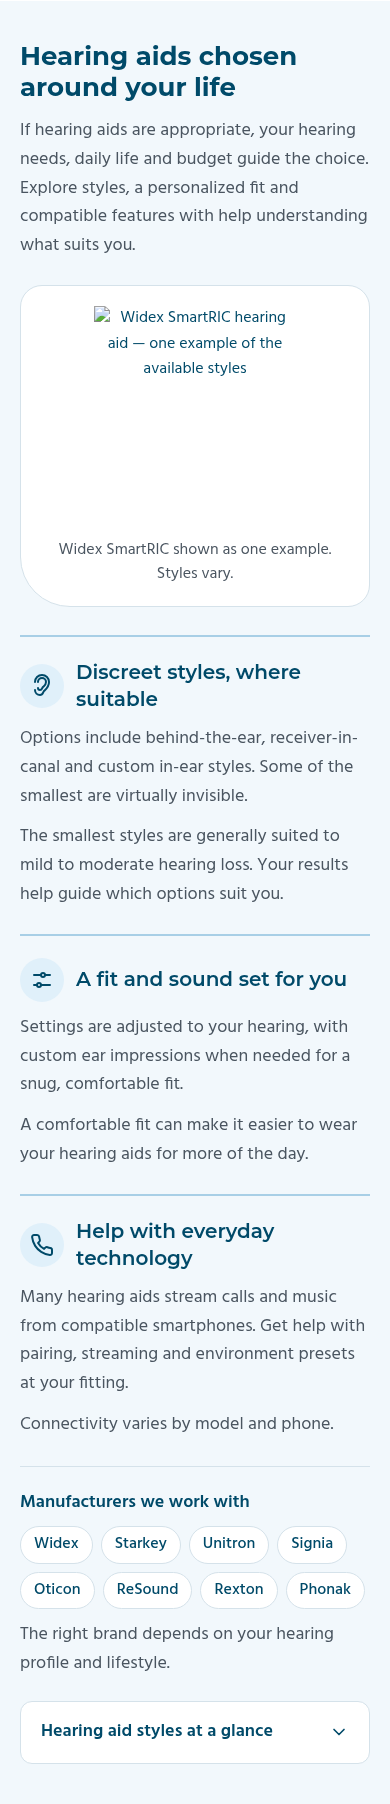
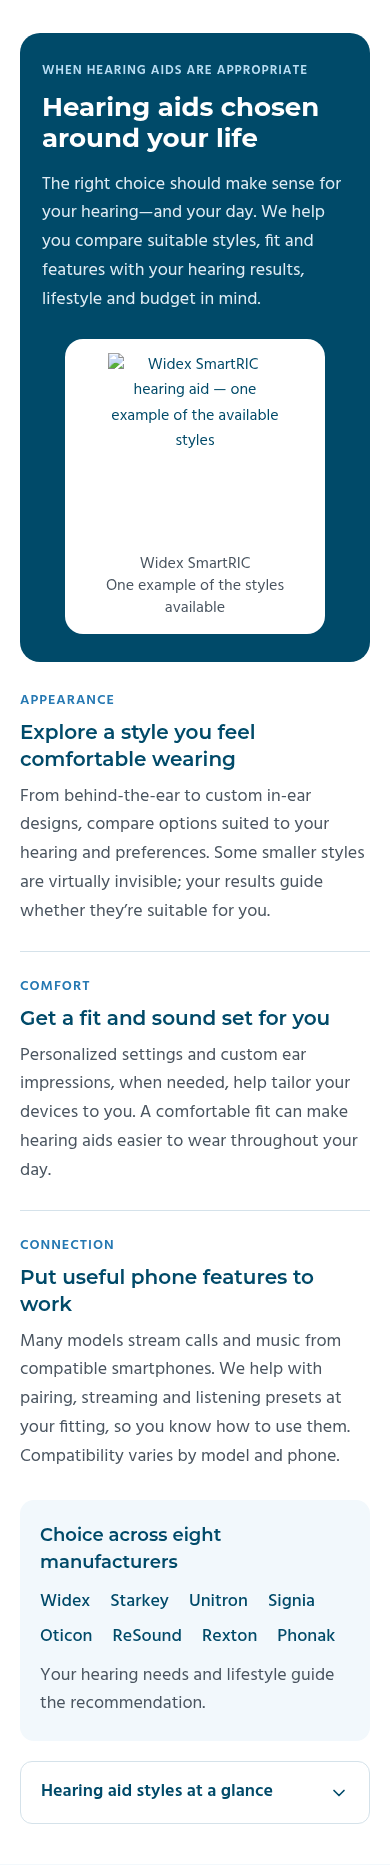
Strengthen options visual hierarchy and benefit copy

diff --git a/index.html b/index.html
@@ -499,47 +499,57 @@ a:hover{ color:var(--hc-navy); }
 .hc-section-cta{ margin-top:clamp(36px, 4vw, 52px); display:flex; flex-wrap:wrap; align-items:center; gap:16px 28px; }
 .hc-section-cta > p{ font-family:var(--hc-head); font-weight:600; font-size:1.25rem; color:var(--hc-navy); }
 
-/* ---------- Options: image-led introduction and three benefits ---------- */
-#options{ background:var(--hc-surface); padding:60px 0; }
-.hc-options__intro{ display:grid; grid-template-columns:minmax(0,7fr) minmax(0,5fr); gap:56px; align-items:center; }
-.hc-options__intro h2{ max-width:650px; }
-.hc-options__intro p{ margin-top:18px; font-size:1.125rem; line-height:1.6; color:var(--hc-muted); max-width:620px; }
-.hc-options__media{ margin:0; padding:26px; border:1px solid var(--hc-border); border-radius:26px 26px 26px 70px; background:var(--hc-white); text-align:center; }
-.hc-options__photo{ min-height:253px; display:flex; justify-content:center; align-items:center; }
-.hc-options__photo img{ width:232px; height:253px; max-width:100%; object-fit:contain; color:var(--hc-navy); font-size:1rem; }
-.hc-options__media figcaption{ margin-top:12px; font-size:1rem; line-height:1.5; color:var(--hc-muted); }
-.hc-options__benefits{ display:grid; grid-template-columns:repeat(3,minmax(0,1fr)); gap:30px; margin-top:40px; }
-.hc-options .hc-feature{ border-top:2px solid #a8cfe6; padding-top:22px; }
-.hc-options .hc-feature h3{ margin:14px 0 12px; font-size:1.375rem; line-height:1.35; }
+/* ---------- Options: focused product story and practical benefits ---------- */
+#options{ background:var(--hc-white); padding:56px 0; }
+.hc-options__intro{ display:grid; grid-template-columns:minmax(0,1fr) 280px; gap:52px; align-items:center; padding:40px 44px; border-radius:24px; background:var(--hc-navy); }
+.hc-options__eyebrow{ display:block; margin-bottom:16px; font-size:.875rem; font-weight:600; line-height:1.5; letter-spacing:.07em; color:#b9def4; text-transform:uppercase; }
+.hc-options__intro h2{ max-width:650px; color:var(--hc-white); }
+.hc-options__intro p{ margin-top:20px; font-size:1.125rem; line-height:1.6; color:#e0edf5; max-width:610px; }
+.hc-options__media{ margin:0; padding:18px 18px 16px; border-radius:18px; background:var(--hc-white); text-align:center; }
+.hc-options__photo{ display:flex; justify-content:center; align-items:center; }
+.hc-options__photo img{ width:202px; height:220px; max-width:100%; object-fit:contain; color:var(--hc-navy); font-size:1rem; }
+.hc-options__media figcaption{ margin-top:10px; font-size:1rem; line-height:1.4; color:var(--hc-muted); }
+.hc-options__benefits{ display:grid; grid-template-columns:repeat(3,minmax(0,1fr)); gap:0; margin-top:36px; }
+.hc-options .hc-feature{ padding:0 28px; }
+.hc-options .hc-feature:first-child{ padding-left:0; }
+.hc-options .hc-feature:last-child{ padding-right:0; }
+.hc-options .hc-feature + .hc-feature{ border-left:1px solid var(--hc-border); }
+.hc-options__label{ display:block; margin-bottom:10px; color:var(--hc-blue); font-size:.875rem; line-height:1.5; font-weight:600; letter-spacing:.07em; text-transform:uppercase; }
+.hc-options .hc-feature h3{ margin:0 0 14px; min-height:2.7em; font-size:1.375rem; line-height:1.35; }
 .hc-options .hc-feature p{ font-size:1.125rem; line-height:1.6; color:var(--hc-muted); }
-.hc-options .hc-feature p + p{ margin-top:12px; }
-.hc-options__icon{ display:flex; align-items:center; justify-content:center; width:44px; height:44px; color:var(--hc-navy); background:#e0f0fa; border-radius:50%; }
-.hc-options__icon svg{ width:24px; height:24px; }
-.hc-options__support{ display:grid; grid-template-columns:minmax(0,7fr) minmax(0,5fr); gap:40px; align-items:start; margin-top:34px; padding-top:28px; border-top:1px solid var(--hc-border); }
-.hc-options .hc-brands h3{ font-size:1.125rem; font-family:var(--hc-body); font-weight:600; color:var(--hc-navy); margin-bottom:12px; }
-.hc-options .hc-brands ul{ list-style:none; margin:0; padding:0; display:flex; flex-wrap:wrap; gap:8px; }
-.hc-options .hc-brands li{ padding:5px 13px; border:1px solid var(--hc-border); border-radius:999px; font-weight:500; font-size:1rem; color:var(--hc-navy); background:var(--hc-white); }
-.hc-options .hc-brands p{ margin-top:12px; font-size:1.125rem; line-height:1.6; color:var(--hc-muted); }
+.hc-options__support{ margin-top:34px; }
+.hc-options .hc-brands{ display:grid; grid-template-columns:240px minmax(0,1fr); gap:10px 28px; padding:24px 28px; border-radius:14px; background:var(--hc-surface); }
+.hc-options .hc-brands h3{ font-size:1.125rem; line-height:1.5; font-weight:600; color:var(--hc-navy); }
+.hc-options .hc-brands ul{ list-style:none; margin:0; padding:0; display:flex; flex-wrap:wrap; gap:8px 22px; align-items:center; }
+.hc-options .hc-brands li{ font-weight:500; font-size:1.125rem; line-height:1.5; color:var(--hc-navy); }
+.hc-options .hc-brands p{ grid-column:2; font-size:1.125rem; line-height:1.6; color:var(--hc-muted); }
+.hc-options .hc-more{ margin-top:20px; }
 .hc-options .hc-more summary,.hc-options .hc-more__body,.hc-options .hc-more__body > p{ font-size:1.125rem; line-height:1.6; }
+.hc-options .hc-more__body dl{ grid-template-columns:repeat(2,minmax(0,1fr)); gap:22px 36px; }
 @media(max-width:1023px){
- .hc-options__intro{ gap:30px; grid-template-columns:minmax(0,3fr) minmax(0,2fr); }
- .hc-options__media{ padding:20px; }
- .hc-options__benefits{ gap:22px; }
- .hc-options__support{ grid-template-columns:1fr; gap:22px; }
+ .hc-options__intro{ grid-template-columns:minmax(0,1fr) 240px; gap:28px; padding:30px; }
+ .hc-options__media{ padding:16px; }
+ .hc-options .hc-feature{ padding:0 20px; }
+ .hc-options .hc-feature h3{ min-height:4.05em; font-size:1.25rem; }
+ .hc-options .hc-brands{ grid-template-columns:200px minmax(0,1fr); gap:10px 20px; padding:22px; }
 }
 @media(max-width:767px){
- #options{ padding:40px 0; }
- .hc-options__intro{ grid-template-columns:1fr; gap:24px; }
- .hc-options__intro p{ margin-top:14px; }
- .hc-options__media{ width:100%; max-width:440px; justify-self:center; border-radius:22px 22px 22px 50px; }
- .hc-options__photo{ min-height:220px; }
- .hc-options__photo img{ width:202px; height:220px; }
+ #options{ padding:32px 0 40px; }
+ .hc-options__intro{ grid-template-columns:1fr; gap:24px; padding:28px 22px; border-radius:20px; }
+ .hc-options__eyebrow{ margin-bottom:12px; font-size:.8125rem; }
+ .hc-options__intro p{ margin-top:16px; }
+ .hc-options__media{ width:100%; max-width:260px; justify-self:center; padding:14px; }
+ .hc-options__photo img{ width:174px; height:190px; }
  .hc-options__benefits{ grid-template-columns:1fr; margin-top:28px; gap:24px; }
- .hc-options .hc-feature{ display:grid; grid-template-columns:44px minmax(0,1fr); gap:12px; align-items:center; padding-top:22px; }
- .hc-options .hc-feature h3{ margin:0; font-size:1.25rem; }
- .hc-options .hc-feature p{ grid-column:1 / -1; }
- .hc-options .hc-feature p + p{ margin-top:0; }
- .hc-options__support{ margin-top:26px; padding-top:24px; }
+ .hc-options .hc-feature,.hc-options .hc-feature:first-child,.hc-options .hc-feature:last-child{ padding:0; border:0; }
+ .hc-options .hc-feature + .hc-feature{ padding-top:24px; border-top:1px solid var(--hc-border); border-left:0; }
+ .hc-options__label{ margin-bottom:8px; }
+ .hc-options .hc-feature h3{ margin-bottom:10px; min-height:0; }
+ .hc-options__support{ margin-top:28px; }
+ .hc-options .hc-brands{ grid-template-columns:1fr; gap:12px; padding:22px 20px; }
+ .hc-options .hc-brands ul{ gap:8px 20px; }
+ .hc-options .hc-brands p{ grid-column:auto; }
+ .hc-options .hc-more__body dl{ grid-template-columns:1fr; gap:18px; }
 }
 
 /* ---------- Payment ---------- */
@@ -948,39 +958,37 @@ a:hover{ color:var(--hc-navy); }
   <div class="hc-wrap hc-options">
     <div class="hc-options__intro">
       <div>
+        <span class="hc-options__eyebrow">When hearing aids are appropriate</span>
         <h2 id="options-title">Hearing aids chosen around your life</h2>
-        <p>If hearing aids are appropriate, your hearing needs, daily life and budget guide the choice. Explore styles, a personalized fit and compatible features with help understanding what suits you.</p>
+        <p>The right choice should make sense for your hearing—and your day. We help you compare suitable styles, fit and features with your hearing results, lifestyle and budget in mind.</p>
       </div>
       <figure class="hc-options__media">
         <div class="hc-options__photo"><img src="https://hearcareinc.com/wp-content/uploads/2026/08/widexsmartric.jpg" width="232" height="253" loading="lazy" decoding="async" alt="Widex SmartRIC hearing aid — one example of the available styles"></div>
-        <figcaption>Widex SmartRIC shown as one example. Styles vary.</figcaption>
+        <figcaption>Widex SmartRIC<br>One example of the styles available</figcaption>
       </figure>
     </div>
     <div class="hc-options__benefits">
       <div class="hc-feature">
-        <span class="hc-options__icon" aria-hidden="true"><svg class="hc-icon"><path d="M8 8a4 4 0 0 1 8 0c0 3-2 4-3 5s-1 3-3 3a2 2 0 0 1-2-2M5 8a7 7 0 0 1 14 0c0 5-3 7-5 9-1 1-1 4-4 4a5 5 0 0 1-5-5"/></svg></span>
-        <h3>Discreet styles, where suitable</h3>
-        <p>Options include behind-the-ear, receiver-in-canal and custom in-ear styles. Some of the smallest are virtually invisible.</p>
-        <p>The smallest styles are generally suited to mild to moderate hearing loss. Your results help guide which options suit you.</p>
+        <span class="hc-options__label">Appearance</span>
+        <h3>Explore a style you feel comfortable wearing</h3>
+        <p>From behind-the-ear to custom in-ear designs, compare options suited to your hearing and preferences. Some smaller styles are virtually invisible; your results guide whether they’re suitable for you.</p>
       </div>
       <div class="hc-feature">
-        <span class="hc-options__icon" aria-hidden="true"><svg class="hc-icon"><path d="M4 7h7m4 0h5M4 17h3m4 0h9"/><circle cx="13" cy="7" r="2"/><circle cx="9" cy="17" r="2"/></svg></span>
-        <h3>A fit and sound set for you</h3>
-        <p>Settings are adjusted to your hearing, with custom ear impressions when needed for a snug, comfortable fit.</p>
-        <p>A comfortable fit can make it easier to wear your hearing aids for more of the day.</p>
+        <span class="hc-options__label">Comfort</span>
+        <h3>Get a fit and sound set for you</h3>
+        <p>Personalized settings and custom ear impressions, when needed, help tailor your devices to you. A comfortable fit can make hearing aids easier to wear throughout your day.</p>
       </div>
       <div class="hc-feature">
-        <span class="hc-options__icon" aria-hidden="true"><svg class="hc-icon"><use href="#i-phone"/></svg></span>
-        <h3>Help with everyday technology</h3>
-        <p>Many hearing aids stream calls and music from compatible smartphones. Get help with pairing, streaming and environment presets at your fitting.</p>
-        <p>Connectivity varies by model and phone.</p>
+        <span class="hc-options__label">Connection</span>
+        <h3>Put useful phone features to work</h3>
+        <p>Many models stream calls and music from compatible smartphones. We help with pairing, streaming and listening presets at your fitting, so you know how to use them. Compatibility varies by model and phone.</p>
       </div>
     </div>
     <div class="hc-options__support">
       <div class="hc-brands">
-        <h3>Manufacturers we work with</h3>
+        <h3>Choice across eight manufacturers</h3>
         <ul><li>Widex</li><li>Starkey</li><li>Unitron</li><li>Signia</li><li>Oticon</li><li>ReSound</li><li>Rexton</li><li>Phonak</li></ul>
-        <p>The right brand depends on your hearing profile and lifestyle.</p>
+        <p>Your hearing needs and lifestyle guide the recommendation.</p>
       </div>
       <details class="hc-more">
         <summary>Hearing aid styles at a glance<svg class="hc-icon" aria-hidden="true"><use href="#i-chev"/></svg></summary>

diff --git a/review/hero-review.html b/review/hero-review.html
@@ -499,47 +499,57 @@ a:hover{ color:var(--hc-navy); }
 .hc-section-cta{ margin-top:clamp(36px, 4vw, 52px); display:flex; flex-wrap:wrap; align-items:center; gap:16px 28px; }
 .hc-section-cta > p{ font-family:var(--hc-head); font-weight:600; font-size:1.25rem; color:var(--hc-navy); }
 
-/* ---------- Options: image-led introduction and three benefits ---------- */
-#options{ background:var(--hc-surface); padding:60px 0; }
-.hc-options__intro{ display:grid; grid-template-columns:minmax(0,7fr) minmax(0,5fr); gap:56px; align-items:center; }
-.hc-options__intro h2{ max-width:650px; }
-.hc-options__intro p{ margin-top:18px; font-size:1.125rem; line-height:1.6; color:var(--hc-muted); max-width:620px; }
-.hc-options__media{ margin:0; padding:26px; border:1px solid var(--hc-border); border-radius:26px 26px 26px 70px; background:var(--hc-white); text-align:center; }
-.hc-options__photo{ min-height:253px; display:flex; justify-content:center; align-items:center; }
-.hc-options__photo img{ width:232px; height:253px; max-width:100%; object-fit:contain; color:var(--hc-navy); font-size:1rem; }
-.hc-options__media figcaption{ margin-top:12px; font-size:1rem; line-height:1.5; color:var(--hc-muted); }
-.hc-options__benefits{ display:grid; grid-template-columns:repeat(3,minmax(0,1fr)); gap:30px; margin-top:40px; }
-.hc-options .hc-feature{ border-top:2px solid #a8cfe6; padding-top:22px; }
-.hc-options .hc-feature h3{ margin:14px 0 12px; font-size:1.375rem; line-height:1.35; }
+/* ---------- Options: focused product story and practical benefits ---------- */
+#options{ background:var(--hc-white); padding:56px 0; }
+.hc-options__intro{ display:grid; grid-template-columns:minmax(0,1fr) 280px; gap:52px; align-items:center; padding:40px 44px; border-radius:24px; background:var(--hc-navy); }
+.hc-options__eyebrow{ display:block; margin-bottom:16px; font-size:.875rem; font-weight:600; line-height:1.5; letter-spacing:.07em; color:#b9def4; text-transform:uppercase; }
+.hc-options__intro h2{ max-width:650px; color:var(--hc-white); }
+.hc-options__intro p{ margin-top:20px; font-size:1.125rem; line-height:1.6; color:#e0edf5; max-width:610px; }
+.hc-options__media{ margin:0; padding:18px 18px 16px; border-radius:18px; background:var(--hc-white); text-align:center; }
+.hc-options__photo{ display:flex; justify-content:center; align-items:center; }
+.hc-options__photo img{ width:202px; height:220px; max-width:100%; object-fit:contain; color:var(--hc-navy); font-size:1rem; }
+.hc-options__media figcaption{ margin-top:10px; font-size:1rem; line-height:1.4; color:var(--hc-muted); }
+.hc-options__benefits{ display:grid; grid-template-columns:repeat(3,minmax(0,1fr)); gap:0; margin-top:36px; }
+.hc-options .hc-feature{ padding:0 28px; }
+.hc-options .hc-feature:first-child{ padding-left:0; }
+.hc-options .hc-feature:last-child{ padding-right:0; }
+.hc-options .hc-feature + .hc-feature{ border-left:1px solid var(--hc-border); }
+.hc-options__label{ display:block; margin-bottom:10px; color:var(--hc-blue); font-size:.875rem; line-height:1.5; font-weight:600; letter-spacing:.07em; text-transform:uppercase; }
+.hc-options .hc-feature h3{ margin:0 0 14px; min-height:2.7em; font-size:1.375rem; line-height:1.35; }
 .hc-options .hc-feature p{ font-size:1.125rem; line-height:1.6; color:var(--hc-muted); }
-.hc-options .hc-feature p + p{ margin-top:12px; }
-.hc-options__icon{ display:flex; align-items:center; justify-content:center; width:44px; height:44px; color:var(--hc-navy); background:#e0f0fa; border-radius:50%; }
-.hc-options__icon svg{ width:24px; height:24px; }
-.hc-options__support{ display:grid; grid-template-columns:minmax(0,7fr) minmax(0,5fr); gap:40px; align-items:start; margin-top:34px; padding-top:28px; border-top:1px solid var(--hc-border); }
-.hc-options .hc-brands h3{ font-size:1.125rem; font-family:var(--hc-body); font-weight:600; color:var(--hc-navy); margin-bottom:12px; }
-.hc-options .hc-brands ul{ list-style:none; margin:0; padding:0; display:flex; flex-wrap:wrap; gap:8px; }
-.hc-options .hc-brands li{ padding:5px 13px; border:1px solid var(--hc-border); border-radius:999px; font-weight:500; font-size:1rem; color:var(--hc-navy); background:var(--hc-white); }
-.hc-options .hc-brands p{ margin-top:12px; font-size:1.125rem; line-height:1.6; color:var(--hc-muted); }
+.hc-options__support{ margin-top:34px; }
+.hc-options .hc-brands{ display:grid; grid-template-columns:240px minmax(0,1fr); gap:10px 28px; padding:24px 28px; border-radius:14px; background:var(--hc-surface); }
+.hc-options .hc-brands h3{ font-size:1.125rem; line-height:1.5; font-weight:600; color:var(--hc-navy); }
+.hc-options .hc-brands ul{ list-style:none; margin:0; padding:0; display:flex; flex-wrap:wrap; gap:8px 22px; align-items:center; }
+.hc-options .hc-brands li{ font-weight:500; font-size:1.125rem; line-height:1.5; color:var(--hc-navy); }
+.hc-options .hc-brands p{ grid-column:2; font-size:1.125rem; line-height:1.6; color:var(--hc-muted); }
+.hc-options .hc-more{ margin-top:20px; }
 .hc-options .hc-more summary,.hc-options .hc-more__body,.hc-options .hc-more__body > p{ font-size:1.125rem; line-height:1.6; }
+.hc-options .hc-more__body dl{ grid-template-columns:repeat(2,minmax(0,1fr)); gap:22px 36px; }
 @media(max-width:1023px){
- .hc-options__intro{ gap:30px; grid-template-columns:minmax(0,3fr) minmax(0,2fr); }
- .hc-options__media{ padding:20px; }
- .hc-options__benefits{ gap:22px; }
- .hc-options__support{ grid-template-columns:1fr; gap:22px; }
+ .hc-options__intro{ grid-template-columns:minmax(0,1fr) 240px; gap:28px; padding:30px; }
+ .hc-options__media{ padding:16px; }
+ .hc-options .hc-feature{ padding:0 20px; }
+ .hc-options .hc-feature h3{ min-height:4.05em; font-size:1.25rem; }
+ .hc-options .hc-brands{ grid-template-columns:200px minmax(0,1fr); gap:10px 20px; padding:22px; }
 }
 @media(max-width:767px){
- #options{ padding:40px 0; }
- .hc-options__intro{ grid-template-columns:1fr; gap:24px; }
- .hc-options__intro p{ margin-top:14px; }
- .hc-options__media{ width:100%; max-width:440px; justify-self:center; border-radius:22px 22px 22px 50px; }
- .hc-options__photo{ min-height:220px; }
- .hc-options__photo img{ width:202px; height:220px; }
+ #options{ padding:32px 0 40px; }
+ .hc-options__intro{ grid-template-columns:1fr; gap:24px; padding:28px 22px; border-radius:20px; }
+ .hc-options__eyebrow{ margin-bottom:12px; font-size:.8125rem; }
+ .hc-options__intro p{ margin-top:16px; }
+ .hc-options__media{ width:100%; max-width:260px; justify-self:center; padding:14px; }
+ .hc-options__photo img{ width:174px; height:190px; }
  .hc-options__benefits{ grid-template-columns:1fr; margin-top:28px; gap:24px; }
- .hc-options .hc-feature{ display:grid; grid-template-columns:44px minmax(0,1fr); gap:12px; align-items:center; padding-top:22px; }
- .hc-options .hc-feature h3{ margin:0; font-size:1.25rem; }
- .hc-options .hc-feature p{ grid-column:1 / -1; }
- .hc-options .hc-feature p + p{ margin-top:0; }
- .hc-options__support{ margin-top:26px; padding-top:24px; }
+ .hc-options .hc-feature,.hc-options .hc-feature:first-child,.hc-options .hc-feature:last-child{ padding:0; border:0; }
+ .hc-options .hc-feature + .hc-feature{ padding-top:24px; border-top:1px solid var(--hc-border); border-left:0; }
+ .hc-options__label{ margin-bottom:8px; }
+ .hc-options .hc-feature h3{ margin-bottom:10px; min-height:0; }
+ .hc-options__support{ margin-top:28px; }
+ .hc-options .hc-brands{ grid-template-columns:1fr; gap:12px; padding:22px 20px; }
+ .hc-options .hc-brands ul{ gap:8px 20px; }
+ .hc-options .hc-brands p{ grid-column:auto; }
+ .hc-options .hc-more__body dl{ grid-template-columns:1fr; gap:18px; }
 }
 
 /* ---------- Payment ---------- */
@@ -948,39 +958,37 @@ a:hover{ color:var(--hc-navy); }
   <div class="hc-wrap hc-options">
     <div class="hc-options__intro">
       <div>
+        <span class="hc-options__eyebrow">When hearing aids are appropriate</span>
         <h2 id="options-title">Hearing aids chosen around your life</h2>
-        <p>If hearing aids are appropriate, your hearing needs, daily life and budget guide the choice. Explore styles, a personalized fit and compatible features with help understanding what suits you.</p>
+        <p>The right choice should make sense for your hearing—and your day. We help you compare suitable styles, fit and features with your hearing results, lifestyle and budget in mind.</p>
       </div>
       <figure class="hc-options__media">
         <div class="hc-options__photo"><img src="https://hearcareinc.com/wp-content/uploads/2026/08/widexsmartric.jpg" width="232" height="253" loading="lazy" decoding="async" alt="Widex SmartRIC hearing aid — one example of the available styles"></div>
-        <figcaption>Widex SmartRIC shown as one example. Styles vary.</figcaption>
+        <figcaption>Widex SmartRIC<br>One example of the styles available</figcaption>
       </figure>
     </div>
     <div class="hc-options__benefits">
       <div class="hc-feature">
-        <span class="hc-options__icon" aria-hidden="true"><svg class="hc-icon"><path d="M8 8a4 4 0 0 1 8 0c0 3-2 4-3 5s-1 3-3 3a2 2 0 0 1-2-2M5 8a7 7 0 0 1 14 0c0 5-3 7-5 9-1 1-1 4-4 4a5 5 0 0 1-5-5"/></svg></span>
-        <h3>Discreet styles, where suitable</h3>
-        <p>Options include behind-the-ear, receiver-in-canal and custom in-ear styles. Some of the smallest are virtually invisible.</p>
-        <p>The smallest styles are generally suited to mild to moderate hearing loss. Your results help guide which options suit you.</p>
+        <span class="hc-options__label">Appearance</span>
+        <h3>Explore a style you feel comfortable wearing</h3>
+        <p>From behind-the-ear to custom in-ear designs, compare options suited to your hearing and preferences. Some smaller styles are virtually invisible; your results guide whether they’re suitable for you.</p>
       </div>
       <div class="hc-feature">
-        <span class="hc-options__icon" aria-hidden="true"><svg class="hc-icon"><path d="M4 7h7m4 0h5M4 17h3m4 0h9"/><circle cx="13" cy="7" r="2"/><circle cx="9" cy="17" r="2"/></svg></span>
-        <h3>A fit and sound set for you</h3>
-        <p>Settings are adjusted to your hearing, with custom ear impressions when needed for a snug, comfortable fit.</p>
-        <p>A comfortable fit can make it easier to wear your hearing aids for more of the day.</p>
+        <span class="hc-options__label">Comfort</span>
+        <h3>Get a fit and sound set for you</h3>
+        <p>Personalized settings and custom ear impressions, when needed, help tailor your devices to you. A comfortable fit can make hearing aids easier to wear throughout your day.</p>
       </div>
       <div class="hc-feature">
-        <span class="hc-options__icon" aria-hidden="true"><svg class="hc-icon"><use href="#i-phone"/></svg></span>
-        <h3>Help with everyday technology</h3>
-        <p>Many hearing aids stream calls and music from compatible smartphones. Get help with pairing, streaming and environment presets at your fitting.</p>
-        <p>Connectivity varies by model and phone.</p>
+        <span class="hc-options__label">Connection</span>
+        <h3>Put useful phone features to work</h3>
+        <p>Many models stream calls and music from compatible smartphones. We help with pairing, streaming and listening presets at your fitting, so you know how to use them. Compatibility varies by model and phone.</p>
       </div>
     </div>
     <div class="hc-options__support">
       <div class="hc-brands">
-        <h3>Manufacturers we work with</h3>
+        <h3>Choice across eight manufacturers</h3>
         <ul><li>Widex</li><li>Starkey</li><li>Unitron</li><li>Signia</li><li>Oticon</li><li>ReSound</li><li>Rexton</li><li>Phonak</li></ul>
-        <p>The right brand depends on your hearing profile and lifestyle.</p>
+        <p>Your hearing needs and lifestyle guide the recommendation.</p>
       </div>
       <details class="hc-more">
         <summary>Hearing aid styles at a glance<svg class="hc-icon" aria-hidden="true"><use href="#i-chev"/></svg></summary>

diff --git a/CONTENT_DIRECTION.md b/CONTENT_DIRECTION.md
@@ -207,3 +207,8 @@ User requested a better design of the current unlocked process section. Preserve
 User approved Layout A and “Hearing aids chosen around your life.” Use an image-led introduction with heading/copy left and product visual right; three balanced benefits below cover appropriate discreet styles, personalized fit/settings, and compatible phone features. A compact eight-manufacturer list and original expandable style guide finish the section. Mobile reading order: headline, introduction, image, full-width stacked benefits, brands and style guide. Main text and qualifications remain 18px. A tinted canvas changes rhythm after the white process section; no extra large CTA is needed. Preserve suitability/compatibility qualifications and avoid promises of universal invisibility or outcomes. All other sections are unchanged. Process approval has not been explicitly recorded; preserve its latest implementation. Options implemented for review, not locked.
 
 Imagery: authentic in-hand photo remains preferred but is not available. Use the research-recorded clinic-hosted Widex SmartRIC image at its native 232×253 dimensions as a labelled model example, not as a universal device or feature promise. Local network fetch is blocked, so actual image loading/appearance needs GHL review. No generated device or stock source with unverified licensing is used.
+
+
+## Options revision after updated GHL screenshots
+
+User requested stronger design and content. Keep the approved headline and conditional hearing-aid premise. Replace the low-contrast image-led opening with a compact navy introduction, white headline, and a modest labelled product frame sized to the existing asset. White canvas and three editorial benefit columns focus on appearance, comfort and connection; mobile stacks them with simple dividers. Shorten repeated prose and integrate compatibility/suitability qualifications. Keep the original style guide and all eight brands, now shown as plain text in a supporting strip rather than button-like chips. Main prose stays 18px. No CTA, other section or integration changes. Existing product URL remains; its actual appearance is supported by the user’s new GHL screenshots, while remote retrieval is blocked locally. No generated product imagery. Awaiting rendered review, not locked.

diff --git a/DESIGN_SYSTEM.md b/DESIGN_SYSTEM.md
@@ -241,3 +241,8 @@ User requested a better design of the current unlocked process section. Preserve
 User approved Layout A and “Hearing aids chosen around your life.” Use an image-led introduction with heading/copy left and product visual right; three balanced benefits below cover appropriate discreet styles, personalized fit/settings, and compatible phone features. A compact eight-manufacturer list and original expandable style guide finish the section. Mobile reading order: headline, introduction, image, full-width stacked benefits, brands and style guide. Main text and qualifications remain 18px. A tinted canvas changes rhythm after the white process section; no extra large CTA is needed. Preserve suitability/compatibility qualifications and avoid promises of universal invisibility or outcomes. All other sections are unchanged. Process approval has not been explicitly recorded; preserve its latest implementation. Options implemented for review, not locked.
 
 Imagery: authentic in-hand photo remains preferred but is not available. Use the research-recorded clinic-hosted Widex SmartRIC image at its native 232×253 dimensions as a labelled model example, not as a universal device or feature promise. Local network fetch is blocked, so actual image loading/appearance needs GHL review. No generated device or stock source with unverified licensing is used.
+
+
+## Options revision after updated GHL screenshots
+
+User requested stronger design and content. Keep the approved headline and conditional hearing-aid premise. Replace the low-contrast image-led opening with a compact navy introduction, white headline, and a modest labelled product frame sized to the existing asset. White canvas and three editorial benefit columns focus on appearance, comfort and connection; mobile stacks them with simple dividers. Shorten repeated prose and integrate compatibility/suitability qualifications. Keep the original style guide and all eight brands, now shown as plain text in a supporting strip rather than button-like chips. Main prose stays 18px. No CTA, other section or integration changes. Existing product URL remains; its actual appearance is supported by the user’s new GHL screenshots, while remote retrieval is blocked locally. No generated product imagery. Awaiting rendered review, not locked.

diff --git a/PAGE_STRATEGY.md b/PAGE_STRATEGY.md
@@ -274,3 +274,8 @@ User requested a better design of the current unlocked process section. Preserve
 User approved Layout A and “Hearing aids chosen around your life.” Use an image-led introduction with heading/copy left and product visual right; three balanced benefits below cover appropriate discreet styles, personalized fit/settings, and compatible phone features. A compact eight-manufacturer list and original expandable style guide finish the section. Mobile reading order: headline, introduction, image, full-width stacked benefits, brands and style guide. Main text and qualifications remain 18px. A tinted canvas changes rhythm after the white process section; no extra large CTA is needed. Preserve suitability/compatibility qualifications and avoid promises of universal invisibility or outcomes. All other sections are unchanged. Process approval has not been explicitly recorded; preserve its latest implementation. Options implemented for review, not locked.
 
 Imagery: authentic in-hand photo remains preferred but is not available. Use the research-recorded clinic-hosted Widex SmartRIC image at its native 232×253 dimensions as a labelled model example, not as a universal device or feature promise. Local network fetch is blocked, so actual image loading/appearance needs GHL review. No generated device or stock source with unverified licensing is used.
+
+
+## Options revision after updated GHL screenshots
+
+User requested stronger design and content. Keep the approved headline and conditional hearing-aid premise. Replace the low-contrast image-led opening with a compact navy introduction, white headline, and a modest labelled product frame sized to the existing asset. White canvas and three editorial benefit columns focus on appearance, comfort and connection; mobile stacks them with simple dividers. Shorten repeated prose and integrate compatibility/suitability qualifications. Keep the original style guide and all eight brands, now shown as plain text in a supporting strip rather than button-like chips. Main prose stays 18px. No CTA, other section or integration changes. Existing product URL remains; its actual appearance is supported by the user’s new GHL screenshots, while remote retrieval is blocked locally. No generated product imagery. Awaiting rendered review, not locked.

diff --git a/IMAGE_PROMPTS.md b/IMAGE_PROMPTS.md
@@ -221,3 +221,8 @@ User rejected the small side-by-side mobile portrait. IMG-PROVIDER-01 now remain
 ## Options Layout A implementation update
 
 User approved Layout A + headline 1. This supersedes the old sticky image/above-heading mobile positioning: introduction left/image right, then three benefits across the full desktop width; headline before image on mobile. An authentic in-hand photograph is preferred. Pending that asset, the research-recorded clinic product URL https://hearcareinc.com/wp-content/uploads/2026/08/widexsmartric.jpg is used as a labelled Widex SmartRIC example, at native 232×253 resolution without magnification. Do not infer other models or capabilities from the image. Local network blocks retrieval; image appearance and availability require GHL review. No generated product is used.
+
+
+## Options revision after updated GHL screenshots
+
+User requested stronger design and content. Keep the approved headline and conditional hearing-aid premise. Replace the low-contrast image-led opening with a compact navy introduction, white headline, and a modest labelled product frame sized to the existing asset. White canvas and three editorial benefit columns focus on appearance, comfort and connection; mobile stacks them with simple dividers. Shorten repeated prose and integrate compatibility/suitability qualifications. Keep the original style guide and all eight brands, now shown as plain text in a supporting strip rather than button-like chips. Main prose stays 18px. No CTA, other section or integration changes. Existing product URL remains; its actual appearance is supported by the user’s new GHL screenshots, while remote retrieval is blocked locally. No generated product imagery. Awaiting rendered review, not locked.

diff --git a/review/OPTIONS_REVIEW.md b/review/OPTIONS_REVIEW.md
@@ -30,3 +30,9 @@ A real in-hand photograph remains the preferred final asset. None was supplied o
 - [Expanded styles on mobile](options-styles-mobile.png)
 
 Production font families were rendered using locally cached fonts. Actual product-image appearance remains Needs QA in GHL.
+
+## Second revision — user requested stronger design and content
+
+The user’s latest GHL screenshots confirm the existing Widex product image loads and show its actual appearance. Keep that authentic, labelled model example, with a compact frame rather than the oversized rounded white plate. The approved H2 remains. A navy introduction creates a focal point on the white canvas; three editorial benefits use appearance, comfort and connection labels with short practical explanations. Remove decorative icon circles and reduce duplication. Desktop benefit text aligns; mobile stacks with horizontal rules, preserving 18px body text. The manufacturer strip now uses plain text instead of button-like chips. The original style guide remains complete, with a two-column expanded layout on desktop and one column on mobile.
+
+All other sections and integrations are unchanged by exact source comparison. Updated seven-width rendering and keyboard disclosure checks cover the revision. Local product fetch remains blocked, so local screenshots show missing-image alt content; the actual asset was observed in the user’s GHL screenshots. Pending the user's rendered approval; not locked.
